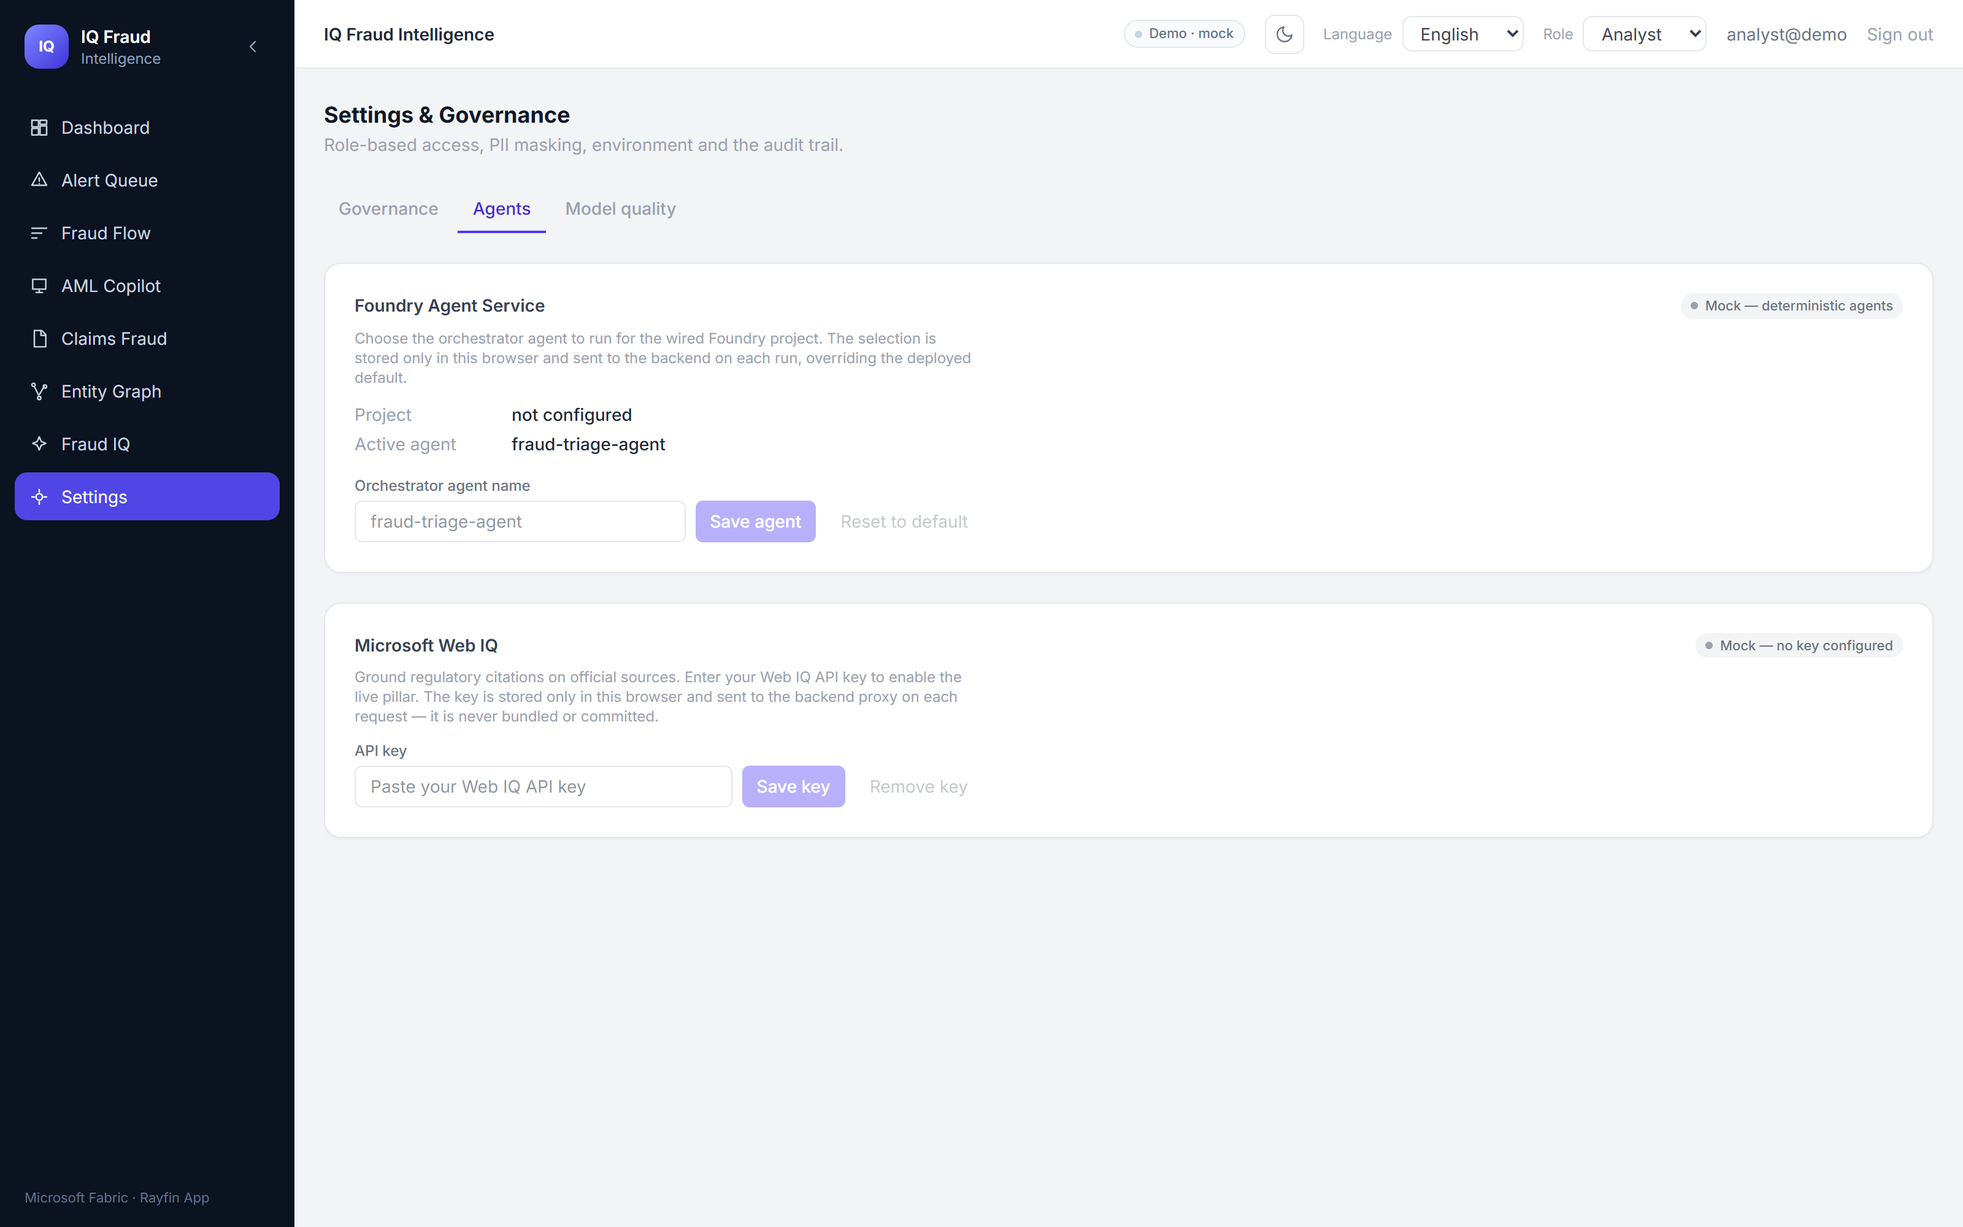
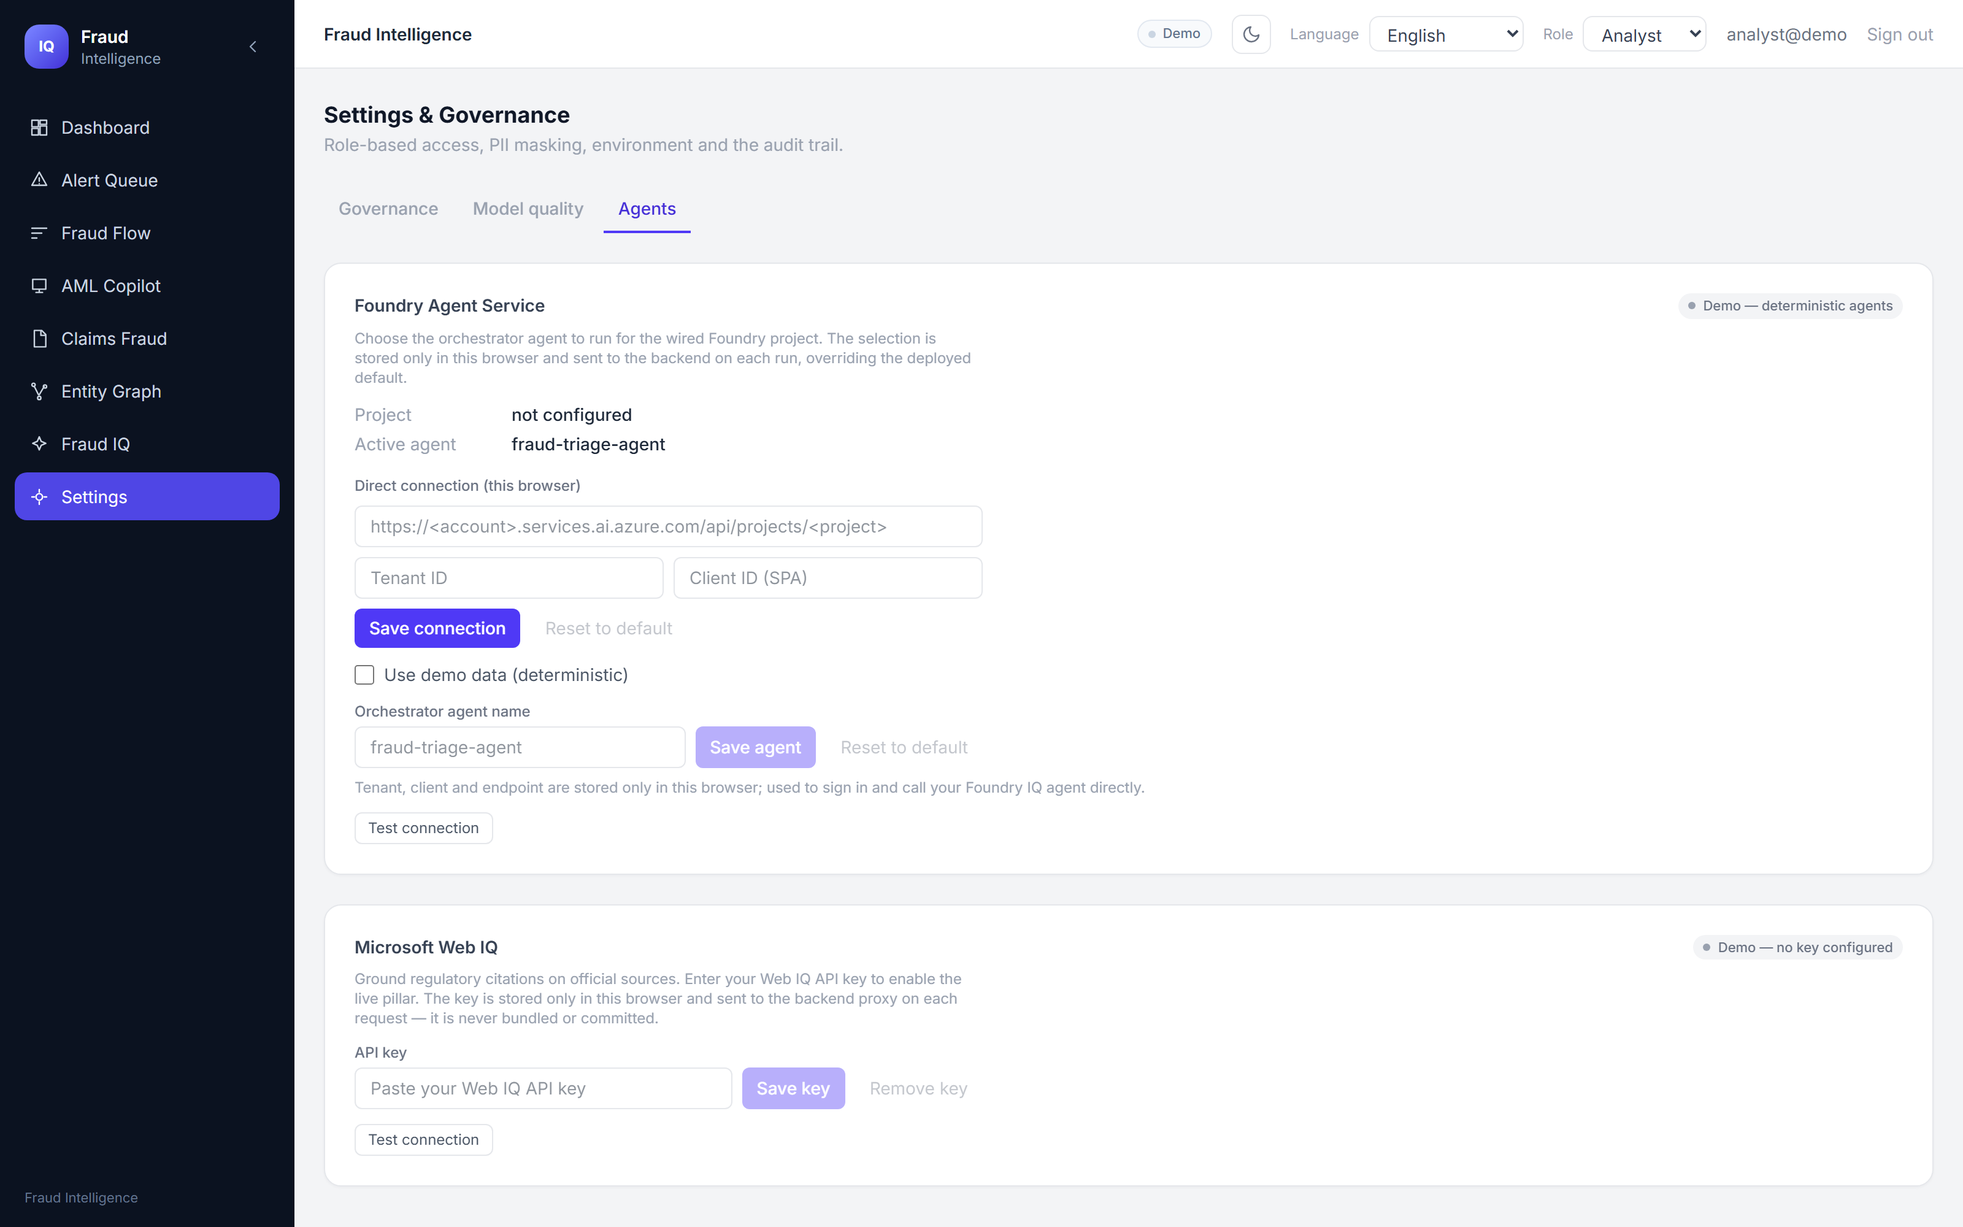
feat(app): runtime Foundry IQ connection + demo toggle; drop 'mock' wording
Settings gains a browser-stored direct Foundry connection (tenant/client/project endpoint) so Foundry IQ can be pointed at any project/agent without a rebuild, plus a 'Use demo data' toggle to force the deterministic path. All user-facing 'mock' wording replaced with 'Demo' (badges, Environment app mode, probe details) — it's a demo. i18n en/fr/es/zh in sync. Refreshed settings.png (Agents tab).

diff --git a/fabric-fraud-intelligence/src/app/pages/Settings.tsx b/fabric-fraud-intelligence/src/app/pages/Settings.tsx
@@ -13,8 +13,16 @@ import {
   KNOWN_FOUNDRY_AGENTS,
   getFoundryAgent,
   setFoundryAgent,
+  getFoundryTenantId,
+  setFoundryTenantId,
+  getFoundryClientId,
+  setFoundryClientId,
+  getFoundryProjectEndpoint,
+  setFoundryProjectEndpoint,
+  getForceDemo,
+  setForceDemo,
 } from '@/backend/services/foundrySettings';
-import { raftEval, type RaftEvaluation } from '@/backend/services/RaftEvalClient';
+import { foundryDirectConfigured } from '@/services/FoundryAgentClient';import { raftEval, type RaftEvaluation } from '@/backend/services/RaftEvalClient';
 import { ROLES, ROLE_PERMISSIONS } from '@/backend/models';
 
 type SettingsTab = 'governance' | 'agents' | 'quality';
@@ -95,15 +103,20 @@ export function Settings() {
         <dl className="grid grid-cols-2 gap-y-2 text-sm max-w-lg">
           <dt className="text-gray-400">{t('pages.settings.appMode')}</dt>
           <dd className="text-gray-800 font-medium">
-            {fabricConfig.mode}
-            {fabricConfig.mode === 'mock' && t('pages.settings.mockSuffix')}
+            {fabricConfig.mode === 'mock' ? t('pages.settings.demoLabel') : fabricConfig.mode}
           </dd>
           <dt className="text-gray-400">{t('pages.settings.workspaceId')}</dt>
           <dd className="text-gray-800 font-medium">{fabricConfig.workspaceId || '—'}</dd>
           <dt className="text-gray-400">{t('pages.settings.dataAgentId')}</dt>
           <dd className="text-gray-800 font-medium">{fabricConfig.dataAgentId || t('pages.settings.notConfigured')}</dd>
+          <dt className="text-gray-400">{t('pages.settings.foundryEndpoint')}</dt>
+          <dd className="truncate text-gray-800 font-medium">
+            {getFoundryProjectEndpoint() || integrationConfig.foundryEndpoint || t('pages.settings.notConfigured')}
+          </dd>
+          <dt className="text-gray-400">{t('pages.settings.foundryAgent')}</dt>
+          <dd className="text-gray-800 font-medium">{getFoundryAgent() || 'fraud-iq-orchestrator'}</dd>
           <dt className="text-gray-400">{t('pages.settings.tenantId')}</dt>
-          <dd className="text-gray-800 font-medium">{fabricConfig.tenantId || '—'}</dd>
+          <dd className="text-gray-800 font-medium">{getFoundryTenantId() || fabricConfig.tenantId || '—'}</dd>
           <dt className="text-gray-400">{t('pages.settings.deployedAt')}</dt>
           <dd className="text-gray-800 font-medium">{new Date(__BUILD_TIME__).toLocaleString()}</dd>
           <dt className="text-gray-400">{t('pages.settings.commit')}</dt>
@@ -232,14 +245,21 @@ function FoundryAgentCard() {
   const { t } = useTranslation();
   const { role } = useRole();
   const [value, setValue] = useState(getFoundryAgent());
+  const [tenant, setTenant] = useState(getFoundryTenantId());
+  const [client, setClient] = useState(getFoundryClientId());
+  const [endpointIn, setEndpointIn] = useState(getFoundryProjectEndpoint());
+  const [demo, setDemo] = useState(getForceDemo());
   const [, bump] = useState(0);
 
-  const endpoint = integrationConfig.foundryEndpoint;
-  const live = isFoundryEnabled();
+  const direct = foundryDirectConfigured();
+  const live = isFoundryEnabled() || direct;
   const custom = getFoundryAgent().length > 0;
+  const hasConnection =
+    getFoundryTenantId().length > 0 || getFoundryClientId().length > 0 || getFoundryProjectEndpoint().length > 0;
   const effective = value.trim() || DEFAULT_FOUNDRY_AGENT;
+  const projectBase = getFoundryProjectEndpoint() || integrationConfig.foundryEndpoint;
   // The project name is encoded in the endpoint (…/projects/<name>) — surfaced read-only.
-  const projectMatch = endpoint.match(/\/projects\/([^/?#]+)/i);
+  const projectMatch = projectBase.match(/\/projects\/([^/?#]+)/i);
   const projectName = projectMatch ? decodeURIComponent(projectMatch[1]) : '';
 
   const save = () => {
@@ -252,6 +272,33 @@ function FoundryAgentCard() {
     setFoundryAgent('');
     setValue('');
     audit.logConfigChange(role, 'Foundry agent', t('pages.settings.foundry.auditReset'));
+    bump((n) => n + 1);
+  };
+  const saveConnection = () => {
+    setFoundryTenantId(tenant);
+    setFoundryClientId(client);
+    setFoundryProjectEndpoint(endpointIn);
+    audit.logConfigChange(role, 'Foundry connection', t('pages.settings.foundry.auditConnection'));
+    bump((n) => n + 1);
+  };
+  const clearConnection = () => {
+    setFoundryTenantId('');
+    setFoundryClientId('');
+    setFoundryProjectEndpoint('');
+    setTenant('');
+    setClient('');
+    setEndpointIn('');
+    audit.logConfigChange(role, 'Foundry connection', t('pages.settings.foundry.auditConnectionClear'));
+    bump((n) => n + 1);
+  };
+  const toggleDemo = (next: boolean) => {
+    setForceDemo(next);
+    setDemo(next);
+    audit.logConfigChange(
+      role,
+      'Foundry demo',
+      next ? t('pages.settings.foundry.auditDemoOn') : t('pages.settings.foundry.auditDemoOff')
+    );
     bump((n) => n + 1);
   };
 
@@ -271,7 +318,7 @@ function FoundryAgentCard() {
       <p className="mb-3 max-w-lg text-xs text-gray-400">{t('pages.settings.foundry.desc')}</p>
       <dl className="mb-4 grid max-w-lg grid-cols-[8rem_1fr] gap-y-1 text-sm">
         <dt className="text-gray-400">{t('pages.settings.foundry.project')}</dt>
-        <dd className="truncate font-medium text-gray-800">{endpoint || t('pages.settings.notConfigured')}</dd>
+        <dd className="truncate font-medium text-gray-800">{projectBase || t('pages.settings.notConfigured')}</dd>
         {projectName && (
           <>
             <dt className="text-gray-400">{t('pages.settings.foundry.projectName')}</dt>
@@ -281,6 +328,65 @@ function FoundryAgentCard() {
         <dt className="text-gray-400">{t('pages.settings.foundry.active')}</dt>
         <dd className="font-medium text-gray-800">{effective}</dd>
       </dl>
+
+      <p className="mb-2 text-xs font-medium text-gray-500">{t('pages.settings.foundry.connectionTitle')}</p>
+      <div className="mb-2 grid max-w-lg gap-2">
+        <input
+          autoComplete="off"
+          spellCheck={false}
+          value={endpointIn}
+          onChange={(e) => setEndpointIn(e.target.value)}
+          placeholder={t('pages.settings.foundry.endpointPlaceholder')}
+          aria-label={t('pages.settings.foundry.endpointLabel')}
+          className="rounded-md border border-gray-200 bg-white px-3 py-1.5 text-sm text-gray-800 dark:border-gray-700 dark:bg-gray-800 dark:text-gray-100"
+        />
+        <div className="grid grid-cols-2 gap-2">
+          <input
+            autoComplete="off"
+            spellCheck={false}
+            value={tenant}
+            onChange={(e) => setTenant(e.target.value)}
+            placeholder={t('pages.settings.foundry.tenantLabel')}
+            aria-label={t('pages.settings.foundry.tenantLabel')}
+            className="rounded-md border border-gray-200 bg-white px-3 py-1.5 text-sm text-gray-800 dark:border-gray-700 dark:bg-gray-800 dark:text-gray-100"
+          />
+          <input
+            autoComplete="off"
+            spellCheck={false}
+            value={client}
+            onChange={(e) => setClient(e.target.value)}
+            placeholder={t('pages.settings.foundry.clientLabel')}
+            aria-label={t('pages.settings.foundry.clientLabel')}
+            className="rounded-md border border-gray-200 bg-white px-3 py-1.5 text-sm text-gray-800 dark:border-gray-700 dark:bg-gray-800 dark:text-gray-100"
+          />
+        </div>
+      </div>
+      <div className="mb-3 flex max-w-lg gap-2">
+        <button
+          onClick={saveConnection}
+          className="rounded-md bg-indigo-600 px-3 py-1.5 text-sm font-medium text-white hover:bg-indigo-700"
+        >
+          {t('pages.settings.foundry.saveConnection')}
+        </button>
+        <button
+          onClick={clearConnection}
+          disabled={!hasConnection}
+          className="rounded-md px-3 py-1.5 text-sm text-gray-500 hover:text-gray-700 disabled:opacity-40"
+        >
+          {t('pages.settings.foundry.reset')}
+        </button>
+      </div>
+
+      <label className="mb-3 flex max-w-lg items-center gap-2 text-sm text-gray-600 dark:text-gray-300">
+        <input
+          type="checkbox"
+          checked={demo}
+          onChange={(e) => toggleDemo(e.target.checked)}
+          className="h-4 w-4 rounded border-gray-300 text-indigo-600 focus:ring-indigo-500"
+        />
+        {t('pages.settings.foundry.forceDemoLabel')}
+      </label>
+
       <label className="mb-1 block text-xs font-medium text-gray-500">{t('pages.settings.foundry.agentLabel')}</label>
       <div className="flex max-w-lg gap-2">
         <input
@@ -313,6 +419,7 @@ function FoundryAgentCard() {
         </button>
       </div>
       {custom && <p className="mt-2 text-xs text-amber-600">{t('pages.settings.foundry.overrideNote')}</p>}
+      <p className="mt-2 text-xs text-gray-400">{t('pages.settings.foundry.connectionNote')}</p>
       <ConnectionProbe run={() => foundryAgent.probe()} />
     </section>
   );

diff --git a/fabric-fraud-intelligence/src/services/FoundryAgentClient.ts b/fabric-fraud-intelligence/src/services/FoundryAgentClient.ts
@@ -5,33 +5,50 @@ import {
 } from '@azure/msal-browser';
 
 import i18n from '@/i18n/i18n';
+import {
+  getForceDemo,
+  getFoundryAgent,
+  getFoundryClientId,
+  getFoundryProjectEndpoint,
+  getFoundryTenantId,
+} from '@/backend/services/foundrySettings';
 
-// Deploy-specific: everything is read from env so the app is tenant / resource-group / project
-// agnostic and never authenticates against a foreign tenant. When the tenant, client or agent
-// endpoint is missing, the direct Foundry path stays off and the deterministic mock runs — no MSAL
-// popup, no cross-tenant sign-in.
-const TENANT_ID = import.meta.env.VITE_FOUNDRY_TENANT_ID || '';
-const CLIENT_ID = import.meta.env.VITE_FOUNDRY_CLIENT_ID || '';
-
-// The agent endpoint is either given whole (VITE_FOUNDRY_AGENT_ENDPOINT) or composed from the
-// account + project + agent name, so a new tenant/RG only needs those parts, not a full URL.
-const FOUNDRY_ACCOUNT = import.meta.env.VITE_FOUNDRY_ACCOUNT || '';
-const FOUNDRY_PROJECT = import.meta.env.VITE_FOUNDRY_PROJECT || '';
-const FOUNDRY_AGENT_NAME = import.meta.env.VITE_FOUNDRY_AGENT_NAME || 'fraud-iq-orchestrator';
-const AGENT_ENDPOINT =
-  import.meta.env.VITE_FOUNDRY_AGENT_ENDPOINT ||
-  (FOUNDRY_ACCOUNT && FOUNDRY_PROJECT
-    ? `https://${FOUNDRY_ACCOUNT}.services.ai.azure.com/api/projects/${FOUNDRY_PROJECT}` +
-      `/agents/${FOUNDRY_AGENT_NAME}/endpoint/protocols/openai/responses`
-    : '');
+// Build-time defaults (VITE_FOUNDRY_*). At call time they are overridden by the analyst's own
+// values entered in Settings (localStorage), so the direct Foundry IQ path can be pointed at any
+// tenant / project / agent without a rebuild. When tenant + client + endpoint are all missing the
+// path stays off and the deterministic mock runs — no MSAL popup, no cross-tenant sign-in.
+const ENV_TENANT_ID = import.meta.env.VITE_FOUNDRY_TENANT_ID || '';
+const ENV_CLIENT_ID = import.meta.env.VITE_FOUNDRY_CLIENT_ID || '';
+const ENV_FOUNDRY_ACCOUNT = import.meta.env.VITE_FOUNDRY_ACCOUNT || '';
+const ENV_FOUNDRY_PROJECT = import.meta.env.VITE_FOUNDRY_PROJECT || '';
+const ENV_AGENT_NAME = import.meta.env.VITE_FOUNDRY_AGENT_NAME || 'fraud-iq-orchestrator';
+const ENV_AGENT_ENDPOINT = import.meta.env.VITE_FOUNDRY_AGENT_ENDPOINT || '';
 const AGENT_API_VERSION = '2025-11-15-preview';
 const SCOPES = ['https://ai.azure.com/.default'];
 const AUTH_REDIRECT_URI = `${window.location.origin}/msal-redirect.html`;
 const POPUP_RELAY_URI = `${window.location.origin}/popup-relay.html`;
 
-/** True only when this deployment wired its OWN Foundry agent (tenant + client + endpoint). */
+// Effective values: browser override (Settings) first, then build-time env.
+const effectiveTenantId = (): string => getFoundryTenantId() || ENV_TENANT_ID;
+const effectiveClientId = (): string => getFoundryClientId() || ENV_CLIENT_ID;
+const effectiveAgentName = (): string => getFoundryAgent() || ENV_AGENT_NAME;
+
+/** Composed agent responses endpoint (runtime project endpoint + agent, else the env fallbacks). */
+export function effectiveAgentEndpoint(): string {
+  const base =
+    getFoundryProjectEndpoint() ||
+    (ENV_FOUNDRY_ACCOUNT && ENV_FOUNDRY_PROJECT
+      ? `https://${ENV_FOUNDRY_ACCOUNT}.services.ai.azure.com/api/projects/${ENV_FOUNDRY_PROJECT}`
+      : '');
+  if (base) {
+    return `${base.replace(/\/+$/, '')}/agents/${effectiveAgentName()}/endpoint/protocols/openai/responses`;
+  }
+  return ENV_AGENT_ENDPOINT;
+}
+
+/** True only when the direct Foundry agent is fully wired (tenant + SPA client + endpoint). */
 export const foundryDirectConfigured = (): boolean =>
-  Boolean(CLIENT_ID && TENANT_ID && AGENT_ENDPOINT);
+  !getForceDemo() && Boolean(effectiveClientId() && effectiveTenantId() && effectiveAgentEndpoint());
 
 /** Deterministic, localized grounding used when no direct Foundry agent is configured. */
 function mockFoundryAnswer(): FoundryAgentResult {
@@ -79,16 +96,20 @@ export function getVersionedAgentEndpoint(endpoint: string): string {
 
 let application: PublicClientApplication | undefined;
 let initialization: Promise<void> | undefined;
+let appSignature = '';
 
 function getApplication(): PublicClientApplication {
-  if (!CLIENT_ID) {
-    throw new Error('Foundry IQ is not configured. Set VITE_FOUNDRY_CLIENT_ID.');
+  const clientId = effectiveClientId();
+  const tenantId = effectiveTenantId();
+  if (!clientId) {
+    throw new Error('Foundry IQ is not configured. Set the SPA client id in Settings.');
   }
-  if (!application) {
+  const signature = `${clientId}|${tenantId}`;
+  if (!application || appSignature !== signature) {
     application = new PublicClientApplication({
       auth: {
-        clientId: CLIENT_ID,
-        authority: `https://login.microsoftonline.com/${TENANT_ID}`,
+        clientId,
+        authority: `https://login.microsoftonline.com/${tenantId}`,
         redirectUri: AUTH_REDIRECT_URI,
         popupRelayUri: POPUP_RELAY_URI,
       },
@@ -100,6 +121,7 @@ function getApplication(): PublicClientApplication {
       },
     });
     initialization = application.initialize();
+    appSignature = signature;
   }
   return application;
 }
@@ -167,7 +189,7 @@ export async function askFoundryAgent(question: string): Promise<FoundryAgentRes
   if (!foundryDirectConfigured()) return mockFoundryAnswer();
   const client = getApplication();
   const accessToken = await getAccessToken(client);
-  const response = await fetch(getVersionedAgentEndpoint(AGENT_ENDPOINT), {
+  const response = await fetch(getVersionedAgentEndpoint(effectiveAgentEndpoint()), {
     method: 'POST',
     headers: {
       Authorization: `Bearer ${accessToken}`,

diff --git a/fabric-fraud-intelligence/src/backend/services/foundrySettings.ts b/fabric-fraud-intelligence/src/backend/services/foundrySettings.ts
@@ -36,3 +36,42 @@ export function setFoundryAgent(value: string): void {
 export function effectiveFoundryAgent(): string {
   return getFoundryAgent() || DEFAULT_FOUNDRY_AGENT;
 }
+
+// --- Direct browser Foundry IQ connection (runtime "bring your own Foundry") -------------------
+// tenant + SPA client + project endpoint, stored only in this browser (localStorage). They let an
+// analyst point the direct Foundry IQ path at their own project/agent at runtime, overriding the
+// build-time VITE_FOUNDRY_* — no rebuild, no cross-tenant default. Never bundled or logged.
+const KEY_TENANT = 'ffi.foundry.tenantId';
+const KEY_CLIENT = 'ffi.foundry.clientId';
+const KEY_ENDPOINT = 'ffi.foundry.projectEndpoint';
+
+function readKey(key: string): string {
+  try {
+    return globalThis.localStorage?.getItem(key)?.trim() ?? '';
+  } catch {
+    return '';
+  }
+}
+
+function writeKey(key: string, value: string): void {
+  try {
+    const v = value.trim();
+    if (v) globalThis.localStorage?.setItem(key, v);
+    else globalThis.localStorage?.removeItem(key);
+  } catch {
+    /* storage unavailable (private mode / SSR) */
+  }
+}
+
+export const getFoundryTenantId = (): string => readKey(KEY_TENANT);
+export const setFoundryTenantId = (value: string): void => writeKey(KEY_TENANT, value);
+export const getFoundryClientId = (): string => readKey(KEY_CLIENT);
+export const setFoundryClientId = (value: string): void => writeKey(KEY_CLIENT, value);
+export const getFoundryProjectEndpoint = (): string => readKey(KEY_ENDPOINT);
+export const setFoundryProjectEndpoint = (value: string): void => writeKey(KEY_ENDPOINT, value);
+
+// Manual preference to always run the deterministic demo path, even when a real connection is
+// wired. Stored only in this browser. Off by default (use the real agent when configured).
+const KEY_FORCE_DEMO = 'ffi.foundry.forceDemo';
+export const getForceDemo = (): boolean => readKey(KEY_FORCE_DEMO) === '1';
+export const setForceDemo = (value: boolean): void => writeKey(KEY_FORCE_DEMO, value ? '1' : '');

diff --git a/fabric-fraud-intelligence/src/app/pages/FraudIQ.tsx b/fabric-fraud-intelligence/src/app/pages/FraudIQ.tsx
@@ -15,7 +15,7 @@ import {
 import { isWorkIqEnabled, isWebIqEnabled } from '@/backend/config';
 import { workIq } from '@/backend/services/WorkIqGraphClient';
 import { webIq } from '@/backend/services/WebIqClient';
-import { askFoundryAgent } from '@/services/FoundryAgentClient';
+import { askFoundryAgent, foundryDirectConfigured } from '@/services/FoundryAgentClient';
 
 const isLive = (id: IqId): boolean =>
   id === 'fabric'
@@ -24,7 +24,7 @@ const isLive = (id: IqId): boolean =>
       ? isWorkIqEnabled()
       : id === 'web'
         ? isWebIqEnabled()
-        : true;
+        : foundryDirectConfigured();
 const COLOR: Record<IqId, string> = { fabric: '#4f46e5', work: '#0d9488', foundry: '#7c3aed', web: '#ea580c' };
 const IQ_BY_ID = Object.fromEntries(IQS.map((i) => [i.id, i])) as Record<IqId, (typeof IQS)[number]>;
 

diff --git a/fabric-fraud-intelligence/src/backend/services/FoundryAgentClient.ts b/fabric-fraud-intelligence/src/backend/services/FoundryAgentClient.ts
@@ -57,7 +57,7 @@ export class FoundryAgentClient {
 
   /** On-demand connectivity probe: runs a minimal agent call and reports the real service mode + detail. */
   async probe(): Promise<ProbeResult> {
-    if (!isFoundryEnabled()) return { state: 'off', detail: 'Foundry not enabled (mock mode)' };
+    if (!isFoundryEnabled()) return { state: 'off', detail: 'Foundry not enabled (demo mode)' };
     const started = Date.now();
     try {
       const agent = getFoundryAgent();

diff --git a/fabric-fraud-intelligence/src/backend/services/WebIqClient.ts b/fabric-fraud-intelligence/src/backend/services/WebIqClient.ts
@@ -36,7 +36,7 @@ export class WebIqClient {
 
   /** On-demand connectivity probe: pings the backend and reports the real service mode + detail. */
   async probe(locale = 'en'): Promise<ProbeResult> {
-    if (!isWebIqEnabled()) return { state: 'off', detail: 'Web IQ not configured (mock mode)' };
+    if (!isWebIqEnabled()) return { state: 'off', detail: 'Web IQ not configured (demo mode)' };
     const started = Date.now();
     try {
       const key = getWebIqKey();
